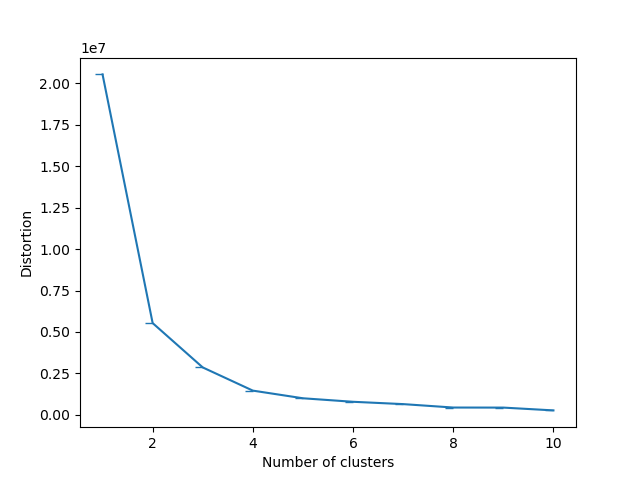
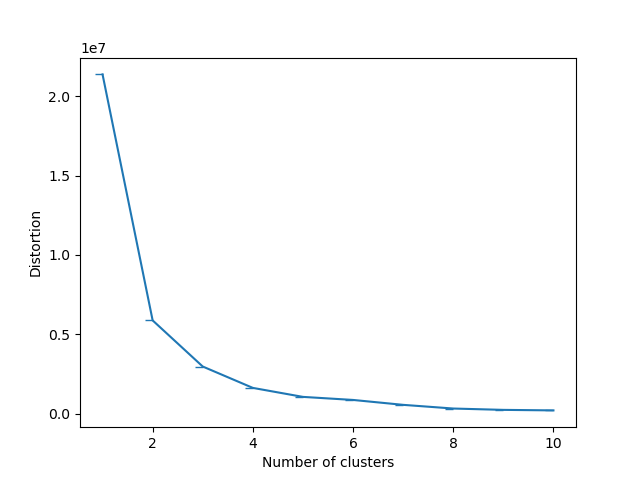
scaled and adjusted final data for model

diff --git a/character_analysis.py b/character_analysis.py
@@ -8,6 +8,7 @@ import openpyxl
 # sklearn libraries
 from sklearn.cluster import KMeans
 from sklearn import preprocessing
+from sklearn.preprocessing import MinMaxScaler
 from sklearn.model_selection import train_test_split
 
 
@@ -88,7 +89,7 @@ def create_clusters(comic_df):
     comic_df.to_csv('Datasets\\Updated_Comic_Dataset.csv')
 
     # find the ideal K
-    X = comic_df[5:]
+    X = comic_df.iloc[:, 5:]
     distortions = []
 
     for i in range(1, 11):
@@ -100,16 +101,35 @@ def create_clusters(comic_df):
     plt.xlabel('Number of clusters')
     plt.ylabel('Distortion')
     plt.savefig('plots\\ideal_k.png')
-    plt.show()
+    # plt.show()
     # the result of this plot shows that three is perhaps the ideal number of clusters for this set
 
     return X
 
 
 def create_final_model(X_train):
+    scaler = MinMaxScaler()
     final_k = KMeans(n_clusters=3, init='random', n_init=10, max_iter=300, tol=1e-04, random_state=0)
-    pred_y = final_k.fit_predict(X_train)
-    X_train = X_train.to_numpy()
+    X = np.array(X_train.drop(['Power_Score'], 1).astype(float))
+    X_scaled = scaler.fit_transform(X)
+    y = X_train['Power_Score']
+
+    pred_y = final_k.fit_predict(X)
+    pred_y = final_k.fit(X_scaled)
+
+    # check to see how the model performed
+    correct = 0
+    for i in range(len(X)):
+        predict_me = np.array(X[i].astype(float))
+        predict_me = predict_me.reshape(-1, len(predict_me))
+        prediction = final_k.predict(predict_me)
+        if prediction[0] == y[i]:
+            correct += 1
+
+    print(correct / len(X))
+
+    '''plt.scatter(X_train[:, 0], X_train[:, 1], label='True Position')
+    plt.savefig('plots\\X_train.png')
 
     # plot the clusters
     plt.scatter(X_train[pred_y == 0, 0], X_train[pred_y == 0, 1], s=50, c='green', marker='o', edgecolor='black', label='cluster 1')
@@ -122,7 +142,7 @@ def create_final_model(X_train):
 
     plt.legend(scatterpoints=1)
     plt.grid()
-    plt.show()
+    plt.show()'''
 
 
 cleaned_comic_df = prepare_data(comic_dataframe)
